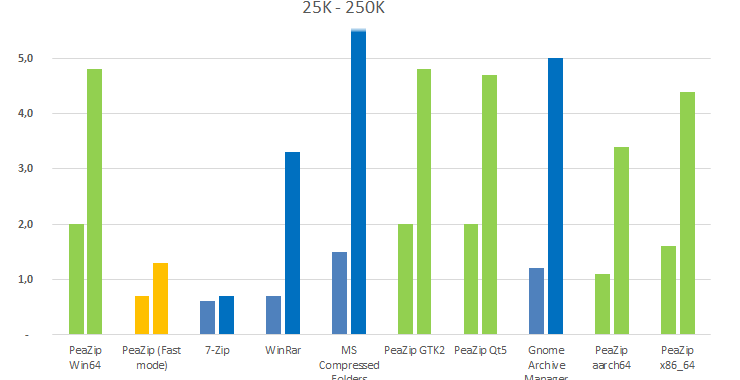
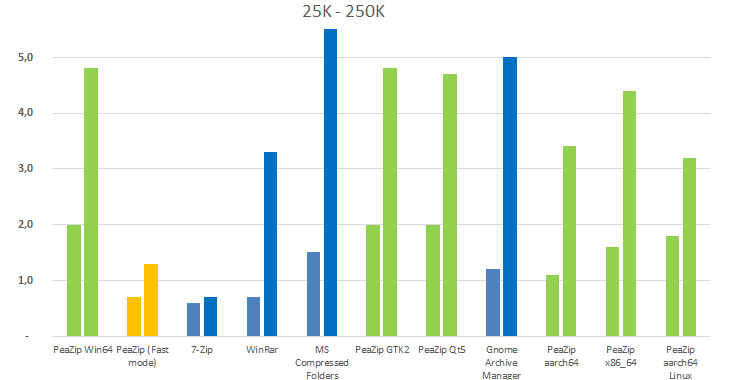
Add files via upload

Changed region(s): [[0.0311, 0.0, 0.9635, 1.0], [0.0311, 0.2895, 0.0622, 0.3184]]

diff --git a/benchmark-open-large-archive.html b/benchmark-open-large-archive.html
@@ -5,7 +5,7 @@
  http-equiv="content-type">
   <meta name="AUTHOR" content="PeaZip Free Archiver Utility">
   <meta name="DESCRIPTION"
- content="What is the fastest application to open large archives? Comparison of archive listing and browsing speed with 7-Zip, PeaZip, WinRar.">
+ content="What is the fastest application to open large archives on Windows, Linux, and macOS? Comparison of archive listing and browsing speed with 7-Zip, PeaZip, WinRar.">
   <meta name="KEYWORDS"
  content="open, archive, benchmark, large, fastest, zip, speed, times, WinRar, PeaZip, 7-Zip, application, browse, list, opener">
   <meta name="ROBOTS" content="all">
@@ -13,13 +13,13 @@
   <meta name="viewport" content="width=device-width">
   <meta property="og:site_name"
  content="PeaZip file archiver utility, free RAR ZIP software">
-  <meta property="og:title"
- content="Compression benchmark: 7-Zip, PeaZip, WinRar, WinZip comparison">
+  <meta property="og:title" content="Open large archives benchmark">
   <meta property="og:description"
- content="File compression and extraction benchmark. Comparison of 7-Zip, Bandizip, PeaZip, WinRar, WinZip archiver utilities performances for the best, fastest application.">
-  <meta property="og:image" content="compression_size_benchmark.png">
+ content="What is the fastest application to open large archives on Windows, Linux, and macOS? Comparison of archive listing and browsing speed with 7-Zip, PeaZip, WinRar.">
+  <meta property="og:image"
+ content="archive-containing-thousands-files.png">
   <meta property="og:url"
- content="https://peazip.github.io/peazip-compression-benchmark.html">
+ content="https://peazip.github.io/benchmark-open-large-archive.html">
   <link rel="stylesheet" type="text/css" href="peazip-software.css">
 </head>
 <body>
@@ -297,15 +297,19 @@ of:</li>
                             <li>Gnome Archive Manager<br>
                             </li>
                           </ul>
-                          <li>macOS 12</li>
+                          <li>macOS 13.6</li>
                           <ul>
-                            <li>PeaZip for macOS aarch64 9.5.0<br>
-                            </li>
+                            <li>PeaZip for macOS aarch64 9.6.0</li>
+                            <li>PeaZip for macOS x86_64 9.6.0</li>
+                          </ul>
+                          <li>Asahi Linux on aarch64<br>
+                          </li>
+                          <ul>
+                            <li>PeaZip for Linux GTK2 aarch64 9.6.0</li>
                           </ul>
                         </ul>
 All applications are tested using default,
-out-of-the-box configuration unless specified otherwise.<br>
-                        </td>
+out-of-the-box configuration unless specified otherwise. </td>
                       </tr>
                     </tbody>
                   </table>
@@ -334,6 +338,7 @@ Linux: virtual machine over previous hardware.<br>
                         <br>
 macOS: 2020 MacBook Air with M1 chip.<br>
 7-Zip benchmark score 45000<br>
+This machine runs both macOS and Asahi Linux aarch64 benchmarks<br>
                         <br>
 Since very different technologies are employed, 7-Zip benchmark score
 is provided as reference, albeit it is mainly correlated with CPU
@@ -589,6 +594,17 @@ macOS x86_64<br>
  style="vertical-align: top; width: 25%; text-align: center;">55.0<br>
                   </td>
                 </tr>
+                <tr>
+                  <td style="vertical-align: top; text-align: right;">PeaZip
+for
+Linux GTK2 aarch64</td>
+                  <td style="vertical-align: top; text-align: center;">1.8<br>
+                  </td>
+                  <td style="vertical-align: top; text-align: center;">3.2<br>
+                  </td>
+                  <td style="vertical-align: top; text-align: center;">5.2<br>
+                  </td>
+                </tr>
               </tbody>
             </table>
             <span style="font-weight: bold;"><br>
@@ -688,6 +704,10 @@ On macOS, the rendering times were noticeably slower than on Linux and
 Windows, either because Lazarus (the IDE using to build PeaZip) is
 less mature on this platform or because of performances of Cocoa widget
 set functions involved.<br>
+The difference is even more evident when comparing the app versions
+running on macOS/Cocoa aarch64, and on Asahi Linux/GTK2 arrch64, with
+the latter verion being about 7x faster than the macOS one in this
+specifc UI-intensive test.<br>
             <br>
             <h3><img alt="what is the fastest app to open zip files"
  title="Display thousands of files in archive"
@@ -745,13 +765,26 @@ On an M1 Apple Silicon machine, the native macOS aarch64 build
 consistently performed better than the x86_64 build, ranging from 25%
 to 40% faster performances.<br>
             <br>
+            <h3 style="font-weight: bold;">macOS vs Linux performances
+on Apple Silicon</h3>
+The first two benchmarks, opening 25K items archive and 250K items
+archive, which mostrly rely on app's own efficiency, shows quite
+siimilar results, with macOS aarch64 version being faster on the
+smaller archive and the Linux aarch64 scaling better on the larger
+archive.<br>
+The last benchmark, which rely heavily on widget-set ability to render
+in the UI a 25K items "flat" archive, shows a clear advantage for the
+Linux/GTK2 version which is about 7 times faster than the macOS/Cocoa
+version, despising the GTK2 widegt set not being the fast one available
+on Linux platform.<br>
+            <br>
             <p style="font-weight: bold;">Synopsis: Open large archives
 benchmark. What is the fastest application to open large archives?
 Comparison of archive browsing speed with 7-Zip, PeaZip, and WinRar.
 Archive listing benchmark methods, time to open results, comparative of
 speed of archive manager utilities for browsing archives containing
-thousands of files and folders.<br>
-            </p>
+thousands of files and folders. Speed test on Windows, Linux, and macOS
+aarch64 and Intel.</p>
             <p style="font-weight: bold;">Topics: PeaZip vs 7-Zip vs
 WinRar list large archive content benchmark, which is the fastest
 application<br>
